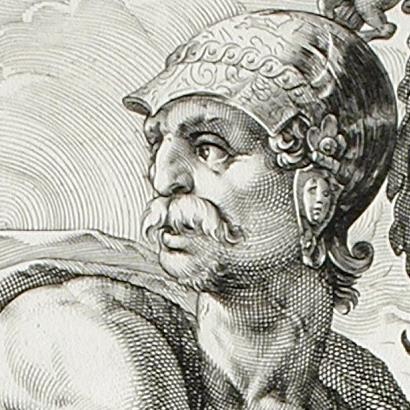
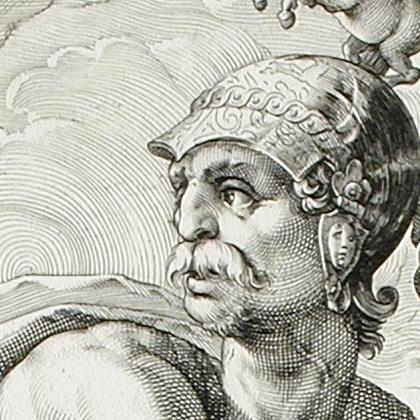
Reencuadrar retrato-13 (Manlio Torcuato) un poco más arriba
Menos cuello, casco completo con aire arriba, cara centrada.

diff --git a/index.html b/index.html
@@ -4,7 +4,7 @@
 <meta charset="UTF-8">
 <meta name="viewport" content="width=device-width, initial-scale=1.0">
 <title>La historia de Roma</title>
-<link rel="stylesheet" href="css/estilos.css?v=79">
+<link rel="stylesheet" href="css/estilos.css?v=80">
 </head>
 <body>
 <div class="wrap">
@@ -210,8 +210,8 @@
     </div>
   </div>
 </div>
-<script src="js/datos.js?v=79"></script>
-<script src="js/mapas.js?v=79"></script>
-<script src="js/app.js?v=79"></script>
+<script src="js/datos.js?v=80"></script>
+<script src="js/mapas.js?v=80"></script>
+<script src="js/app.js?v=80"></script>
 </body>
 </html>
